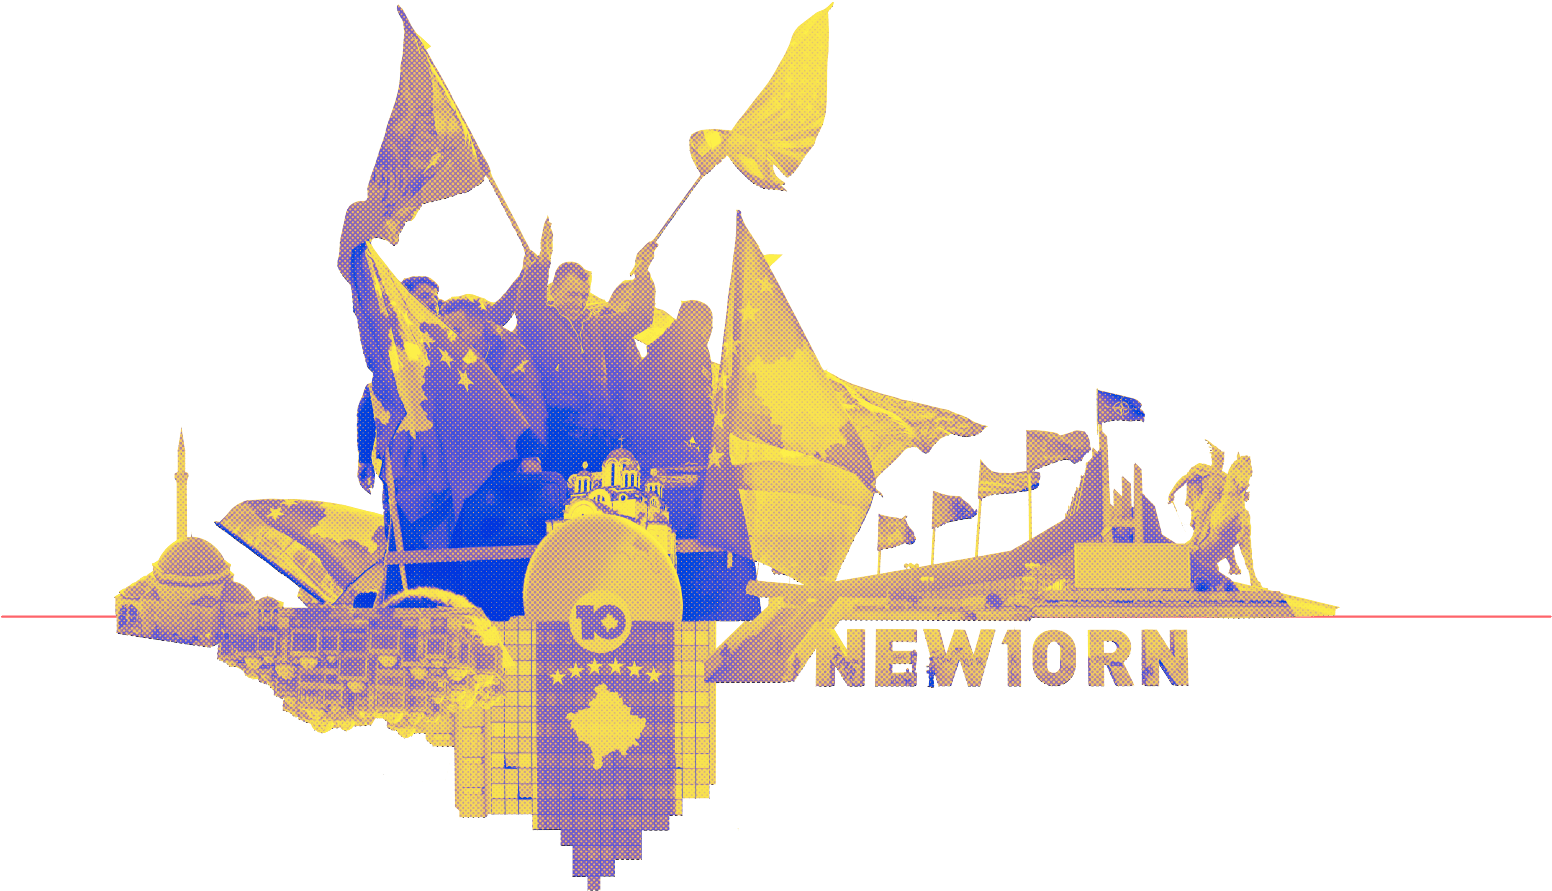
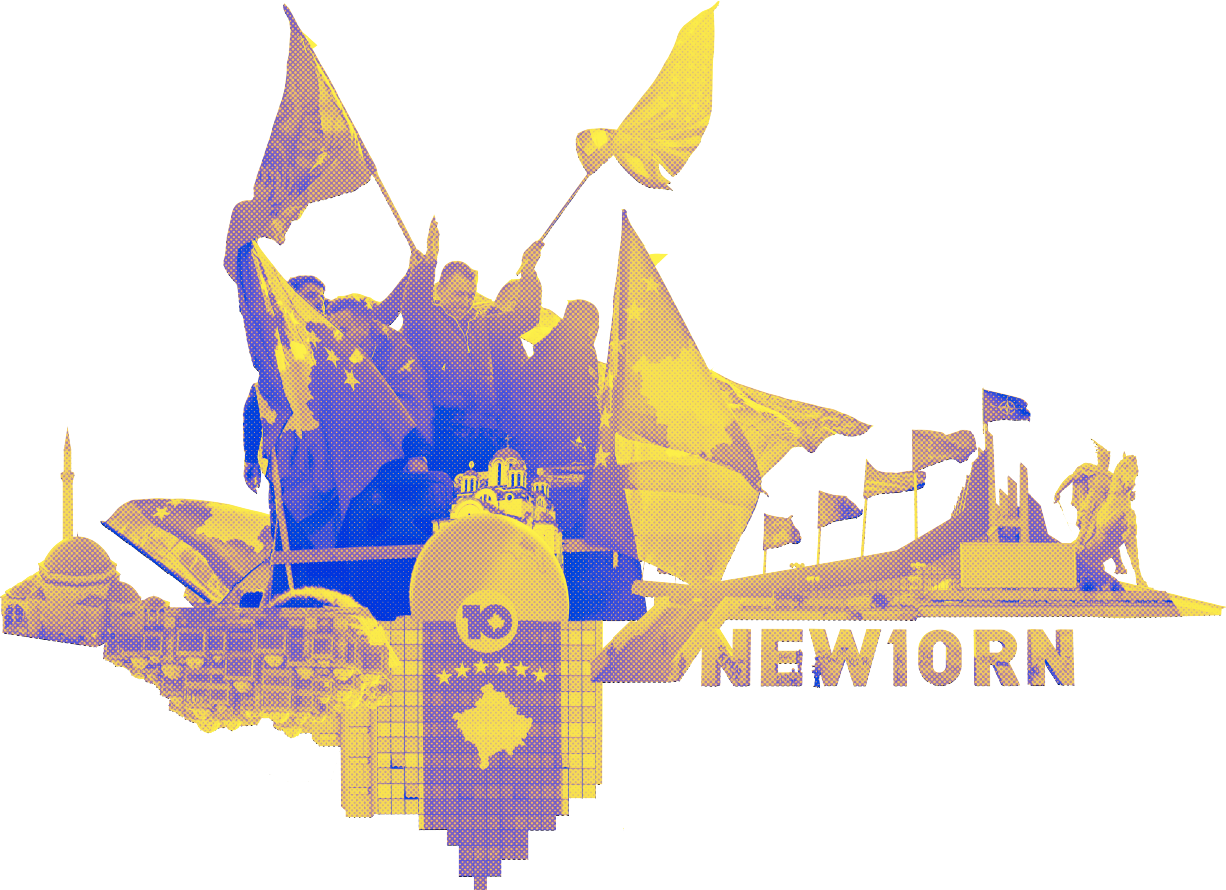
s01 change title

Changed region(s): [[0.0, 0.0, 1.0, 1.0]]

diff --git a/css/style.css b/css/style.css
@@ -1,1 +1,1 @@
-*{color:#002AFB;font-family:'Titillium Web', sans-serif;font-size:14 px;-webkit-box-sizing:border-box;box-sizing:border-box;-webkit-box-pack:center;-ms-flex-pack:center;justify-content:center}.h1,h1{font-size:1.5rem;margin-top:10px;margin-bottom:2rem;font-weight:600}h4{color:#002AFB;font-size:1.3em}h6{color:#2D6AFB;margin-bottom:0;margin-top:0.8rem;font-weight:300}.session-title{padding-left:280px}.session-content{width:100%;padding-left:325px;padding-right:170px}.endingspace{width:100%;height:60px}.navbar{z-index:200;position:fixed;-ms-flex-line-pack:stretch;align-content:stretch;-webkit-box-align:end;-ms-flex-align:end;align-items:flex-end;height:100px;padding-bottom:0}.navbar .nav-BG{height:100%;margin:0 1rem}.navbar .nav-BG img{margin-left:-120px;margin-top:-60px;width:400px}.navbar ul{-webkit-box-align:end;-ms-flex-align:end;align-items:end}.navbar .lang{display:block;padding:.5rem 0;color:#002AFB;padding-right:1rem}.navbar .menuBG{background:-webkit-gradient(linear, left top, left bottom, from(rgba(255, 255, 255, 0)), to(#ffffff));background:-webkit-linear-gradient(rgba(255, 255, 255, 0), #ffffff);background:-o-linear-gradient(rgba(255, 255, 255, 0), #ffffff);background:linear-gradient(rgba(255, 255, 255, 0), #ffffff);position:absolute;z-index:-10;width:800px;height:100px;margin-left:260px;-webkit-transform:skewX(-17deg);-ms-transform:skewX(-17deg);transform:skewX(-17deg);border-bottom:2rem solid white}.navbar #menu{z-index:500;margin-left:-275px;border-bottom:1px solid #2D6AFB;-webkit-box-flex:1;-ms-flex-positive:1;flex-grow:1;-webkit-box-pack:start;-ms-flex-pack:start;justify-content:flex-start}.navbar #menu .space{-webkit-box-flex:1;-ms-flex-positive:1;flex-grow:1}.navbar #menu .social-links{font-size:1.5rem}.navbar #menu .social-links .fab{color:#002AFB;padding-right:1rem}.navbar .nav-link{cursor:pointer;padding:0.5rem 0 0.5rem 1rem}.session-content p{width:100%;margin-left:-45px}.row{-webkit-box-align:stretch;-ms-flex-align:stretch;align-items:stretch}.s1 img{position:absolute;width:100%}.s1 .mainInfo{margin-left:-4.5rem;display:-webkit-box;display:-ms-flexbox;display:flex;-webkit-box-orient:vertical;-webkit-box-direction:normal;-ms-flex-direction:column;flex-direction:column;-webkit-box-align:baseline;-ms-flex-align:baseline;align-items:baseline;-webkit-box-pack:center;-ms-flex-pack:center;justify-content:center;padding-top:20%}.s1 p{font-size:0.8rem;margin-top:-0.5rem}.s2 .carousel-inner{border-radius:5px}.s2 .carousel-item{height:0;padding-bottom:56%;background-color:#2D6AFB}.s3{position:relative;-webkit-box-orient:horizontal;-webkit-box-direction:normal;-ms-flex-direction:row;flex-direction:row;-webkit-box-align:stretch;-ms-flex-align:stretch;align-items:stretch}.s3 .options{display:-webkit-box;display:-ms-flexbox;display:flex;-webkit-box-orient:vertical;-webkit-box-direction:normal;-ms-flex-direction:column;flex-direction:column;-ms-flex-pack:distribute;justify-content:space-around;padding:1% 15px}.s3 .options .knowing{position:absolute;height:100%;display:-webkit-box;display:-ms-flexbox;display:flex;-ms-flex-wrap:wrap;flex-wrap:wrap;-webkit-box-pack:justify;-ms-flex-pack:justify;justify-content:space-between;-ms-flex-line-pack:justify;align-content:space-between;padding:3em;background-color:rgba(255, 255, 255, 0.6);border:1px solid #FED863;border-radius:10px}.s3 .options .knowing button{width:40%}.s3 .options .knowing button span{color:white;padding:0 .5em}.s3 .options>button{height:8%}.s4 button{margin:.5rem}.s5 .ytframe{display:-webkit-box;display:-ms-flexbox;display:flex;padding-bottom:37.4%;height:0}.s5 .ytframe iframe{position:absolute;width:90%;height:100%}.s5 .s5-right{-webkit-box-orient:vertical;-webkit-box-direction:normal;-ms-flex-direction:column;flex-direction:column;-webkit-box-pack:justify;-ms-flex-pack:justify;justify-content:space-between;display:-webkit-box;display:-ms-flexbox;display:flex;padding:15px}.s6 .pie-chart{display:-webkit-box;display:-ms-flexbox;display:flex;-webkit-box-orient:horizontal;-webkit-box-direction:normal;-ms-flex-direction:row;flex-direction:row;-ms-flex-line-pack:distribute;align-content:space-around;-ms-flex-pack:distribute;justify-content:space-around}.s6 .pie-chart .pie-chart-types{display:-webkit-box;display:-ms-flexbox;display:flex;-webkit-box-orient:vertical;-webkit-box-direction:normal;-ms-flex-direction:column;flex-direction:column;-ms-flex-pack:distribute;justify-content:space-around}.s6 .pie-chart .pie-chart-types .types{display:block;text-align:center;position:relative}.s6 .pie-chart .pie-chart-types .types:before{content:'o';display:block;width:2rem;height:2rem;border-radius:100%;background-color:#002AFB;margin:auto}.s6 .pie-chart .pie-chart-frame{z-index:100;padding-bottom:50%}.s6 .pie-chart .pie-chart-frame img{width:100%;position:absolute}.s6 .pie-chart .pie-chart-content{padding:10px;position:absolute;background-color:whitesmoke;height:100%;width:100%;z-index:-100}.s6 button{margin:3rem 0}.s7 .mission-generater{height:0;padding-bottom:48%}.s8{height:500px;background:-webkit-gradient(linear, left top, left bottom, from(#FECB3A), to(#FED863));background:-webkit-linear-gradient(#FECB3A, #FED863);background:-o-linear-gradient(#FECB3A, #FED863);background:linear-gradient(#FECB3A, #FED863)}.footer{height:300px;background-color:#2D6AFB}.footer h1{color:#fff}.btn-outline-secondary:hover{color:#002AFB}@media (max-width:1200px){.navbar{height:60px}.navbar img{width:120px}#menu,.menuBG,.nav-BG{display:none}.sessions p{width:100%;margin:auto}.session-title{padding-left:160px}.s1{-webkit-box-orient:vertical;-webkit-box-direction:normal;-ms-flex-direction:column;flex-direction:column}.s1 .KV img{position:absolute;margin-left:-230px;margin-top:-80px;width:200%}.s1 .mainInfo{background:-webkit-gradient(linear, left top, right top, from(rgba(255, 255, 255, 0)), to(#ffffff));background:-webkit-linear-gradient(left, rgba(255, 255, 255, 0), #ffffff);background:-o-linear-gradient(left, rgba(255, 255, 255, 0), #ffffff);background:linear-gradient(to right, rgba(255, 255, 255, 0), #ffffff);-webkit-box-align:end;-ms-flex-align:end;align-items:end;margin:0;border-right:5px solid white}.s1 p{text-align:right}}@media (max-width:767.98px){*{font-size:12px}h4,h6{width:100%;text-align:right}.session-content{padding:0;text-align:center}p{margin-top:1rem}.s3{-webkit-box-orient:vertical;-webkit-box-direction:reverse;-ms-flex-direction:column-reverse;flex-direction:column-reverse}}
+*{color:#002AFB;font-family:'Titillium Web', sans-serif;font-size:14 px;-webkit-box-sizing:border-box;box-sizing:border-box;-webkit-box-pack:center;-ms-flex-pack:center;justify-content:center}.h1,h1{font-size:1.5rem;margin-top:10px;font-weight:600}h4{color:#002AFB;font-size:1.3em}h6{color:#2D6AFB;margin-bottom:0;margin-top:0.8rem;font-weight:300}.session-title{padding-left:280px}.session-content{width:100%;padding-left:325px;padding-right:170px}.endingspace{width:100%;height:60px}.navbar{z-index:200;position:fixed;-ms-flex-line-pack:stretch;align-content:stretch;-webkit-box-align:end;-ms-flex-align:end;align-items:flex-end;height:100px;padding-bottom:0}.navbar .nav-BG{height:100%;margin:0 1rem}.navbar .nav-BG img{margin-left:-120px;margin-top:-60px;width:400px}.navbar ul{-webkit-box-align:end;-ms-flex-align:end;align-items:end}.navbar .lang{display:block;padding:.5rem 0;color:#002AFB;padding-right:1rem}.navbar .menuBG{background:-webkit-gradient(linear, left top, left bottom, from(rgba(255, 255, 255, 0)), to(#ffffff));background:-webkit-linear-gradient(rgba(255, 255, 255, 0), #ffffff);background:-o-linear-gradient(rgba(255, 255, 255, 0), #ffffff);background:linear-gradient(rgba(255, 255, 255, 0), #ffffff);position:absolute;z-index:-10;width:800px;height:100px;margin-left:260px;-webkit-transform:skewX(-17deg);-ms-transform:skewX(-17deg);transform:skewX(-17deg);border-bottom:2rem solid white}.navbar #menu{z-index:500;margin-left:-275px;border-bottom:1px solid #2D6AFB;-webkit-box-flex:1;-ms-flex-positive:1;flex-grow:1;-webkit-box-pack:start;-ms-flex-pack:start;justify-content:flex-start}.navbar #menu .space{-webkit-box-flex:1;-ms-flex-positive:1;flex-grow:1}.navbar #menu .social-links{font-size:1.5rem}.navbar #menu .social-links .fab{color:#002AFB;padding-right:1rem}.navbar .nav-link{cursor:pointer;padding:0.5rem 0 0.5rem 1rem}.session-content p{width:100%;margin-left:-45px}.row{-webkit-box-align:stretch;-ms-flex-align:stretch;align-items:stretch}.s1 img{position:absolute}.s1 .KV{position:absolute;height:0;padding-bottom:50%}.s1 #typeA{width:21%;left:46.8%;top:23%}.s1 #typeB{width:27%;left:46%;top:34%}.s1 #ribbons{width:70%;top:-10%;left:-1%}.s1 #visual{left:3%;top:12%;width:68%}.s1 .mainInfo{padding-left:70%;display:-webkit-box;display:-ms-flexbox;display:flex;-webkit-box-orient:vertical;-webkit-box-direction:normal;-ms-flex-direction:column;flex-direction:column;-webkit-box-align:baseline;-ms-flex-align:baseline;align-items:baseline;-webkit-box-pack:center;-ms-flex-pack:center;justify-content:center;padding-top:22%;padding-bottom:10%}.s1 p{font-size:0.8rem;margin-top:-0.5rem}.s2 .carousel-inner{border-radius:5px}.s2 .carousel-item{height:0;padding-bottom:56%;background-color:#2D6AFB}.s3{position:relative;-webkit-box-orient:horizontal;-webkit-box-direction:normal;-ms-flex-direction:row;flex-direction:row;-webkit-box-align:stretch;-ms-flex-align:stretch;align-items:stretch}.s3 .options{display:-webkit-box;display:-ms-flexbox;display:flex;-webkit-box-orient:vertical;-webkit-box-direction:normal;-ms-flex-direction:column;flex-direction:column;-ms-flex-pack:distribute;justify-content:space-around;padding:1% 15px}.s3 .options #knowing{position:absolute;height:100%;display:-webkit-box;display:-ms-flexbox;display:flex;-ms-flex-wrap:wrap;flex-wrap:wrap;-webkit-box-pack:justify;-ms-flex-pack:justify;justify-content:space-between;-ms-flex-line-pack:justify;align-content:space-between;padding:3em;background-color:#ffffff;border:1px solid #2D6AFB;border-radius:10px;-webkit-transform:translateX(-105%);-ms-transform:translateX(-105%);transform:translateX(-105%);-webkit-transition-duration:.5s;-o-transition-duration:.5s;transition-duration:.5s;-webkit-transition-timing-function:ease-out;-o-transition-timing-function:ease-out;transition-timing-function:ease-out}.s3 .options #knowing button{width:40%}.s3 .options #knowing button span{color:white;padding:0 .5em}.s3 .options .knowing-content{width:100%}.s3 .options>button{height:8%}.s4 button{margin:.5rem}.s5 .ytframe{display:-webkit-box;display:-ms-flexbox;display:flex;padding-bottom:37.4%;height:0}.s5 .ytframe iframe{position:absolute;width:90%;height:100%}.s5 .s5-right{-webkit-box-orient:vertical;-webkit-box-direction:normal;-ms-flex-direction:column;flex-direction:column;-webkit-box-pack:justify;-ms-flex-pack:justify;justify-content:space-between;display:-webkit-box;display:-ms-flexbox;display:flex;padding:15px}.s6 .pie-chart{display:-webkit-box;display:-ms-flexbox;display:flex;-webkit-box-orient:horizontal;-webkit-box-direction:normal;-ms-flex-direction:row;flex-direction:row;-ms-flex-line-pack:distribute;align-content:space-around;-ms-flex-pack:distribute;justify-content:space-around}.s6 .pie-chart .pie-chart-types{display:-webkit-box;display:-ms-flexbox;display:flex;-webkit-box-orient:vertical;-webkit-box-direction:normal;-ms-flex-direction:column;flex-direction:column;-ms-flex-pack:distribute;justify-content:space-around}.s6 .pie-chart .pie-chart-types .types{display:block;text-align:center;position:relative}.s6 .pie-chart .pie-chart-types .types:before{content:'o';display:block;width:2rem;height:2rem;border-radius:100%;background-color:#002AFB;margin:auto}.s6 .pie-chart .pie-chart-frame{z-index:100;padding-bottom:50%}.s6 .pie-chart .pie-chart-frame img{width:100%;position:absolute}.s6 .pie-chart .pie-chart-content{padding:10px;position:absolute;background-color:whitesmoke;height:100%;width:100%;z-index:-100}.s6 button{margin:3rem 0}.s7 .mission-generater{height:0;padding-bottom:48%}.s8{height:500px;background:-webkit-gradient(linear, left top, left bottom, from(#FECB3A), to(#FED863));background:-webkit-linear-gradient(#FECB3A, #FED863);background:-o-linear-gradient(#FECB3A, #FED863);background:linear-gradient(#FECB3A, #FED863)}.footer{height:300px;background-color:#2D6AFB}.footer h1{color:#fff}.btn-outline-secondary:hover{color:#002AFB}@media (max-width:1400px){.s1 h6{margin-top:.3rem}.s1 p{margin-bottom:0}}@media (max-width:1200px){.navbar{height:60px}.navbar img{width:120px}#menu,.menuBG,.nav-BG{display:none}.sessions p{width:100%;margin:auto}.session-title{padding-left:160px}.s1{-webkit-box-orient:vertical;-webkit-box-direction:normal;-ms-flex-direction:column;flex-direction:column}.s1 .KV img{position:absolute;margin-left:-230px;margin-top:-80px;width:200%}.s1 .mainInfo{background:-webkit-gradient(linear, left top, right top, from(rgba(255, 255, 255, 0)), to(#ffffff));background:-webkit-linear-gradient(left, rgba(255, 255, 255, 0), #ffffff);background:-o-linear-gradient(left, rgba(255, 255, 255, 0), #ffffff);background:linear-gradient(to right, rgba(255, 255, 255, 0), #ffffff);-webkit-box-align:end;-ms-flex-align:end;align-items:end;margin:0;border-right:5px solid white}.s1 p{text-align:right;padding-bottom:.5rem}}@media (max-width:767.98px){*{font-size:12px}h4,h6{width:100%;text-align:right}.session-content{padding:0;text-align:center}p{margin-top:1rem}.s3{-webkit-box-orient:vertical;-webkit-box-direction:reverse;-ms-flex-direction:column-reverse;flex-direction:column-reverse}}

diff --git a/css/style.less b/css/style.less
@@ -14,7 +14,6 @@
 h1, .h1 { 
     font-size: 1.5rem; 
     margin-top: 10px; 
-    margin-bottom: 2rem;
     font-weight: 600;
 }
 h4{
@@ -35,7 +34,7 @@ h6{
     padding-left: 325px;
     padding-right: 170px;    
 }
-.endingspace{ width: 100%; height: 60px;}
+.endingspace{ width: 100%; height: 60px; }
 .navbar{
     z-index: 200;
     position: fixed;
@@ -90,7 +89,7 @@ h6{
     }
 }
 .session-content{
-    p{width: 100%; margin-left: -45px;}
+    p{ width: 100%; margin-left: -45px; }
 }
 .row{
     align-items: stretch;
@@ -98,15 +97,40 @@ h6{
 .s1{
     img{
         position: absolute;
-        width: 100%;
+    }
+    .KV{
+        position: absolute;
+        height: 0;
+        padding-bottom: 50%;
+    }
+    #typeA{
+        width: 21%;
+        left: 46.8%;
+        top: 23%;
+    }
+    #typeB{
+        width: 27%;
+        left: 46%;
+        top: 34%;
+    }
+    #ribbons{
+        width: 70%;
+        top: -10%;
+        left: -1%;
+    }
+    #visual{
+        left: 3%;
+        top: 12%;
+        width: 68%;
     }
     .mainInfo{
-        margin-left: -4.5rem;
+        padding-left: 70%;
         display: flex;
         flex-direction: column;
         align-items: baseline;
         justify-content: center;
-        padding-top: 20%;
+        padding-top: 22%;
+        padding-bottom: 10%;
     }
     p{font-size: 0.8rem; margin-top: -.5rem;}
 }
@@ -129,7 +153,7 @@ h6{
         flex-direction: column;
         justify-content: space-around;
         padding: 1% 15px;
-        .knowing{
+        #knowing{
             position: absolute;
             height: 100%;
             display: flex;
@@ -137,13 +161,19 @@ h6{
             justify-content: space-between;
             align-content: space-between;
             padding: 3em;
-            background-color: rgba(255,255,255,0.6);
-            border: 1px solid @color-Y-Sec;
+            background-color: rgba(255,255,255,1);
+            border: 1px solid @color-B-Sec;
             border-radius: 10px;
+            transform: translateX(-105%);
+            transition-duration: .5s;
+            transition-timing-function: ease-out;
             button{
                 span{color: white; padding: 0 .5em;}
                 width: 40%;
             }
+        }
+        .knowing-content{
+            width: 100%;
         }
         >button{
             height: 8%;
@@ -245,7 +275,13 @@ h6{
 
 .btn-outline-secondary:hover{
     color: #002AFB;
-}
+} 
+@media (max-width: 1400px) {
+    .s1{
+        h6{ margin-top: .3rem;}
+        p{ margin-bottom: 0; }
+    }
+}   
 @media (max-width: 1200px) {
     .navbar{
         height: 60px;
@@ -278,12 +314,16 @@ h6{
         }
         p{
             text-align: right;
+            padding-bottom: .5rem;
         }
     }
 }
 @media (max-width: 767.98px) {
     *{
         font-size: 12px;
+    }
+    #typeA ,#typeB{
+        display: none;
     }
     h4, h6{
         width: 100%;

diff --git a/js/kosovowall.js b/js/kosovowall.js
@@ -1,0 +1,20 @@
+// $(".options").click(
+//   knowing();
+// )
+$(".onbaby").css("back","block");
+
+// $(".s3btn").click(
+//   function(){
+//     $('#knowing').css("transform","translateX(0%)");
+//   }
+);
+
+// function knowing(){
+//     $('#knowing').css("transform","translateX(0%)");
+//     // $('.knowing-content').text($(this.attr("data"));
+// }
+
+function back(){
+    $('#knowing').css("transform","translateX(-105%)");
+}
+

diff --git a/model/s3.php b/model/s3.php
@@ -10,27 +10,28 @@
 
                 <div class="col-12 col-md-6 options">
 
-                    <div class="knowing">
+                    <div id="knowing">
                         <div class="knowing-content">
 
                         Yahoo Travel has rated Kosovo’s macchiato as the best in the world in 2014. Macchiato in Kosovo features in boiled milk and the creamy top. You can find perfect macchiato in almost every cafe shops of Kosovo.
 The beans are never burned, but the drink has a strong espresso flavor. The milk is sweet, and its frothy milk foam is lighter than air.
 
                         </div>
-                        <button type="button" class="btn btn-outline-secondary btn-lg ">back</button>
+                        <button type="button" class="btn btn-outline-secondary btn-lg" onclick="back();">back</button>
                         <button type="button" class="btn btn-primary btn-lg "><span class="fab fa-facebook-f"></span>Share</button>      
                     </div>
 
-                        <button type="button" class="btn btn-outline-secondary btn-block options">The Best Macchiato in the World</button>
-                        <button type="button" class="btn btn-outline-secondary btn-block options">60% of the population is under 35 years old</button>
-                        <button type="button" class="btn btn-outline-secondary btn-block options">A remarkable Internet penetration rate in Europe</button>
-                        <button type="button" class="btn btn-outline-secondary btn-block options">Religious tolerance since forever</button>
-                        <button type="button" class="btn btn-outline-secondary btn-block options">Underground resource worth more than 1 trillion dollars</button>
-                        <button type="button" class="btn btn-outline-secondary btn-block options">Kosovo’s love for USA</button>
-                        <button type="button" class="btn btn-outline-secondary btn-block options">Active civil society</button>
-                        <button type="button" class="btn btn-outline-secondary btn-block options">Talented footballers</button>
-                        <button type="button" class="btn btn-outline-secondary btn-block options">In the Name of Love</button>
-                        <button type="button" class="btn btn-outline-secondary btn-block options">The first female president in Balkan</button>  
+                        <div class="ohbaby">AAAAAAAA</div>
+                        <button type="button" data="ohoh1" class="s3btn btn btn-outline-secondary btn-block options" >The Best Macchiato in the World</button>
+                        <button type="button" data="ohoh2" class="s3btn btn btn-outline-secondary btn-block options" >60% of the population is under 35 years old</button>
+                        <button type="button" data="ohoh3" class="s3btn btn btn-outline-secondary btn-block options" >A remarkable Internet penetration rate in Europe</button>
+                        <button type="button" data="ohoh444" class="s3btn btn btn-outline-secondary btn-block options" onclick="knowing();">Religious tolerance since forever</button>
+                        <button type="button" data="ohoh555" class="s3btn btn btn-outline-secondary btn-block options" onclick="knowing();">Underground resource worth more than 1 trillion dollars</button>
+                        <button type="button" data="ohoh666" class="s3btn btn btn-outline-secondary btn-block options" onclick="knowing();">Kosovo’s love for USA</button>
+                        <button type="button" data="oho7" class="s3btn btn btn-outline-secondary btn-block options" onclick="knowing();">Active civil society</button>
+                        <button type="button" data="ohoh888" class="s3btn btn btn-outline-secondary btn-block options" onclick="knowing();">Talented footballers</button>
+                        <button type="button" data="oho99999" class="s3btn btn btn-outline-secondary btn-block options" onclick="knowing();">In the Name of Love</button>
+                        <button type="button" data="ohoh100000" class="s3btn btn btn-outline-secondary btn-block options" onclick="knowing();">The first female president in Balkan</button>  
                 </div>
                 <div class="col-12 col-md-6">
                     <div id="carouselExampleControls" class="carousel slide" data-ride="carousel">

diff --git a/model/s1.php b/model/s1.php
@@ -1,11 +1,11 @@
 <session class="sessions s1 row">
-                <div class="col-12 col-md-9 KV">
-                    <img src="img/s01_Ribbons.svg" alt="">
-                    <div class="type"><img src="img/s01_TypeA.svg" alt=""></div>
-                    <div class="type"><img src="img/s01_TypeB.svg" alt=""></div>
-                    <img src="img/s01_main.png" alt="">
+                <div class="col-12 KV">
+                    <img id="typeB" src="img/s01_TypeB.svg" alt="">
+                    <img id="ribbons" src="img/s01_Ribbons.svg" alt="">
+                    <img id="visual" src="img/s01_main.png" alt="">
+                    <img id="typeA" src="img/s01_TypeA.svg" alt="">
                 </div>
-                <div class="col-12 col-md-3 mainInfo">
+                <div class="col-12 mainInfo">
                     <h6>Date:</h6>
                     <h4>June 27- July 22, 2018</h4>
                     <h6>Venue:</h6>

diff --git a/model/head.php b/model/head.php
@@ -16,6 +16,7 @@
     <script src="https://maxcdn.bootstrapcdn.com/bootstrap/4.0.0/js/bootstrap.min.js" integrity="sha384-JZR6Spejh4U02d8jOt6vLEHfe/JQGiRRSQQxSfFWpi1MquVdAyjUar5+76PVCmYl" crossorigin="anonymous"></script>
     
     
+    <script src="js/kosovowall.js"></script>
     <script src="js/section_scroll.js?t=<?php echo time(); ?>"></script>
     <script src="js/vote.js?t=<?php echo time(); ?>"></script>
     <script src="js/imkosovo.js?t=<?php echo time(); ?>"></script>
